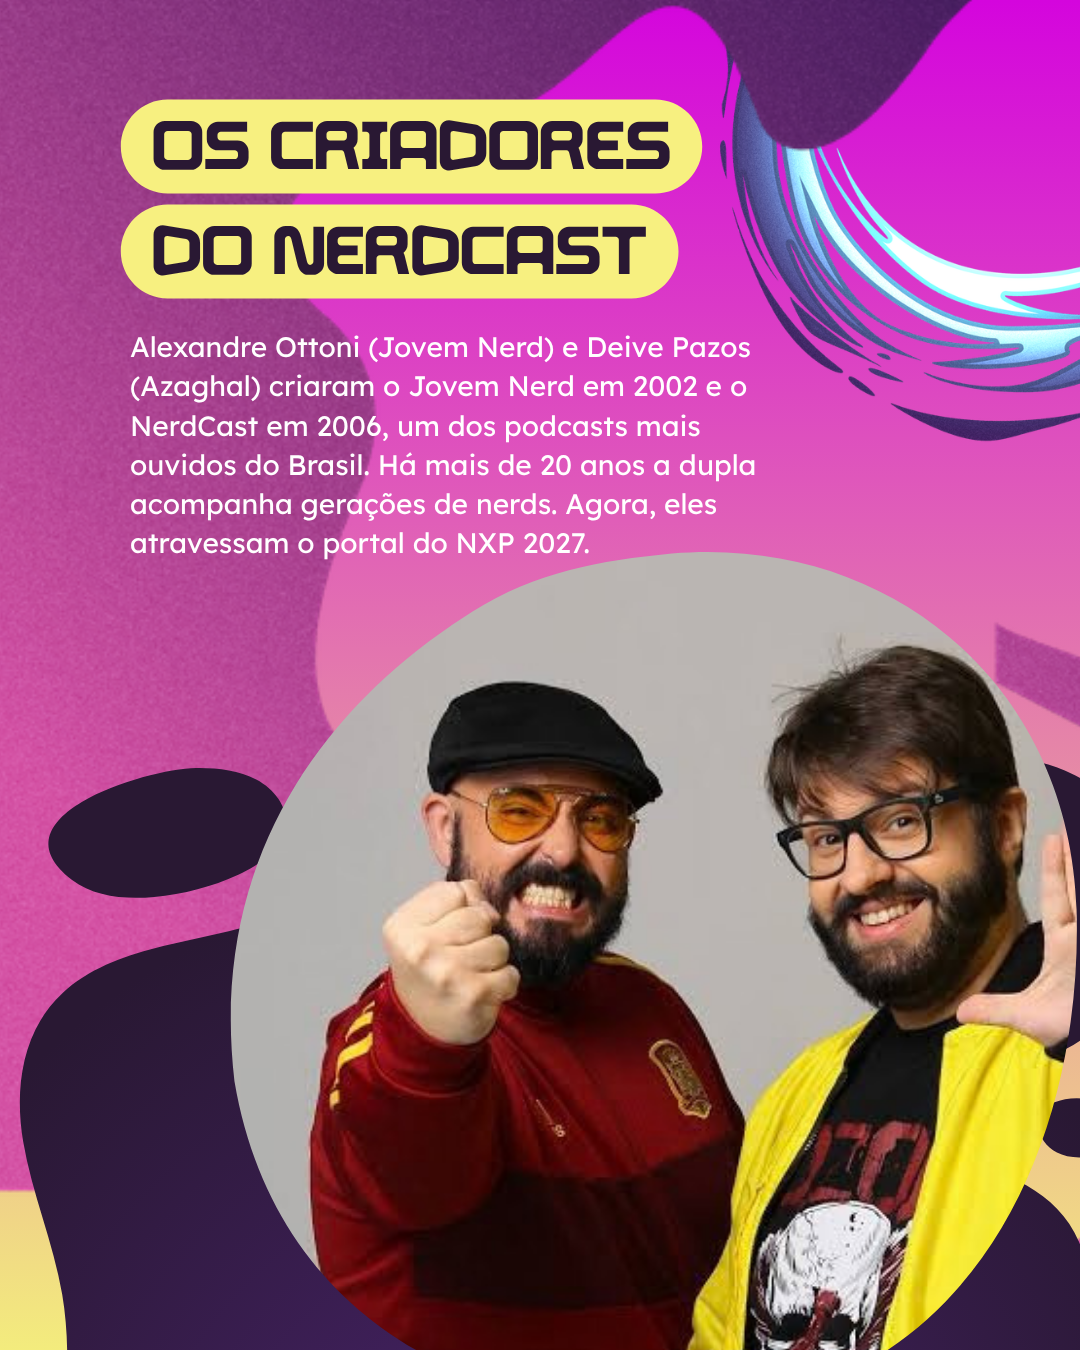
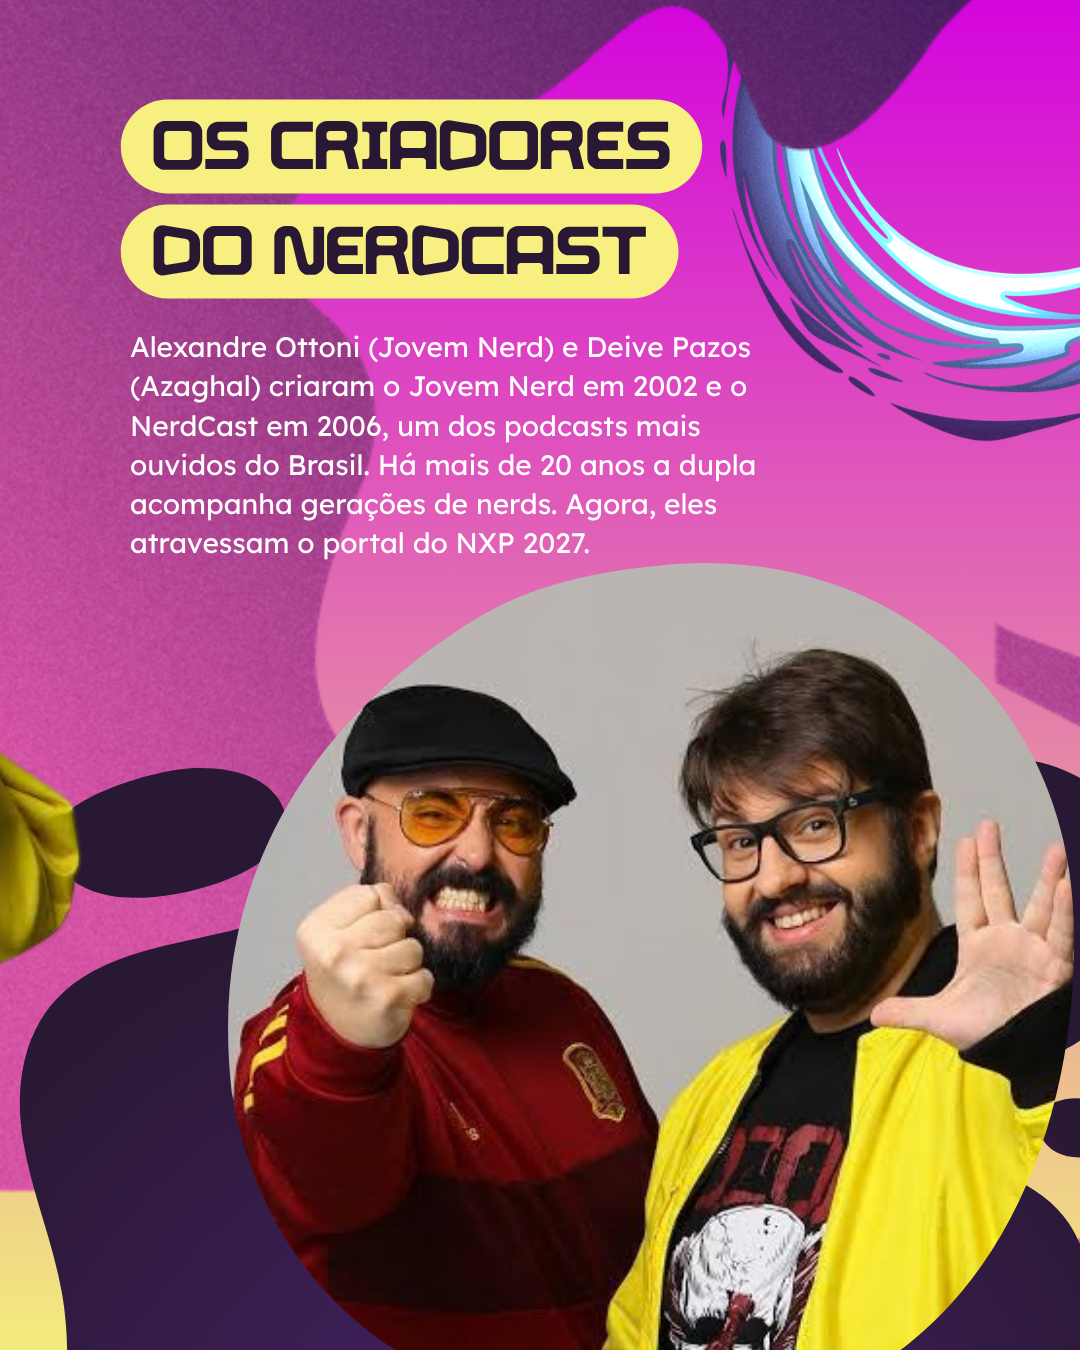
Cria a skill nxp-fazedor-de-posts (fluxo 360) e atualiza peça com a versão da equipe
- Skill do projeto com o fluxo completo: briefing, montagem no Canva,
  QA visual, entrega, revisão da equipe, consolidação e aprendizado
- receitas-canva.md: mapa do template de atração (pág. 202), recorte
  sobre portal, camadas, crop em blob e armadilhas da API
- aprendizados.md: preferências da equipe e armadilhas, atualizado a
  cada peça
- scripts/fatiar.sh: baixa o export, fatia em slides e gera zooms das
  divisas para QA
- CLAUDE.md e entregas/INDICE.md
- PNGs do carrossel Jovem Nerd e Azaghal com os ajustes da equipe

Claude-Session: https://claude.ai/code/session_01UfNEbhVf5orTNUmaXSyZor

diff --git a/.claude/skills/nxp-fazedor-de-posts/SKILL.md b/.claude/skills/nxp-fazedor-de-posts/SKILL.md
@@ -1,0 +1,76 @@
+---
+name: nxp-fazedor-de-posts
+description: Fazedor de posts oficial do Nerd Experience (NXP) — fluxo 360 de ponta a ponta para qualquer peça de Instagram (feed, carrossel, story, reels, banner). Vai do briefing e das fotos até a arte pronta e editável no Canva, QA visual, PNGs fatiados, legenda, entrega no repositório, consolidação no volume do Canva e registro do que aprendeu. Use sempre que pedirem "cria/faz um post, card, story, carrossel, arte" do NXP, anúncio de atração, promoção, lote, contagem regressiva, ou quando a equipe mostrar uma arte ajustada ("mexi, ficou assim").
+---
+
+# Fazedor de posts NXP — fluxo 360
+
+Este é o fluxo deste repositório. A identidade, a voz e os fatos vêm da skill **`nxp-especialista`**: carregue-a antes e use as referências dela (01 fatos, 06 formatos, 07 voz, 09 biblioteca, 12 Canva, 13 QA, 15 design). Aqui ficam o **processo completo** e o que a equipe já ensinou.
+
+**Antes de tudo, leia `references/aprendizados.md`** (preferências da equipe e armadilhas) e `references/receitas-canva.md` (como fazer cada coisa no Canva sem tropeçar).
+
+## Meta
+
+A equipe pede "faz o post" e recebe a **peça completa**: arte final com foto, editável no Canva, PNGs, legenda, alt text e QA. Rascunho com placeholder só se a equipe pedir.
+
+## 1. Briefing (uma mensagem só, perguntando apenas o que falta)
+
+| Campo | Se não vier |
+|---|---|
+| Objetivo e mensagem-chave | deduza e declare a suposição |
+| Formato | anúncio de atração = carrossel de 3 slides (pág. 202); demais casos: feed 4:5 + story |
+| Fatos (dia, preço, cupom, @) | `[A CONFIRMAR]`, **nunca invente** |
+| **Fotos / ativos** | **peça já no briefing**: "manda a foto oficial em alta?" |
+| Data e horário de publicação | sugira 12h ou 19h |
+
+Se a equipe disser só "cria", não trave: siga com as suposições e liste as pendências no final.
+
+## 2. Conceito
+
+Se o pedido estiver aberto, dê 3 opções curtas (título com destaque, modo de cor, âncora visual, página-modelo) e recomende uma. Se for um formato que já tem padrão (atração confirmada, contagem, lote), vá direto ao padrão.
+
+## 3. Montagem no Canva (temporário editável)
+
+1. `copy-design` da página-modelo do mestre `DAHF08WuL5g`. Título: `TEMP · NXP · [Formato] · [Campanha] · [Variação] · vN`.
+2. Textos: reaproveite as caixas do template (a Genius Techo não entra via `add_text`). Ajuste a fonte até não quebrar linha.
+3. Fotos: upload do arquivo da equipe → `remove-background` para recorte → portal atrás (receita em `receitas-canva.md`).
+4. Camadas e cores: apague todos os placeholders, recolora o texto que ficar escuro sobre fundo escuro e reordene as camadas.
+5. `commit` no temporário depois de cada bloco de edição.
+
+## 4. QA visual (obrigatório, em loop até passar)
+
+1. `export-design` png → `bash .claude/skills/nxp-fazedor-de-posts/scripts/fatiar.sh "<url>" entregas/<AAAA-MM-DD_formato_campanha>`
+2. **Olhe** `preview.png`, cada `slide-N.png` em tamanho real e cada `divisa-K.png`. Procure:
+   - placeholder sobrando (paisagem, lorem, "nome atração"), texto invisível ou quebrado;
+   - rosto cortado por blob ou divisa, pessoa ou objeto vazando para o slide vizinho;
+   - emendas entre formas, faixas de cor vazando;
+   - título legível em miniatura (30%).
+3. Rode o checklist `13-checklist-qa.md` da `nxp-especialista`.
+4. Corrigiu? Exporte e olhe de novo. Só entregue sem ❌ de arte.
+
+## 5. Entrega
+
+- Em `entregas/<pasta>/`: `slide-N.png` + `LEGENDA.md` (ficha com status, Canva, texto da arte, legenda, 1º comentário, collab, alt text, desdobramentos, QA e pendências). Modelo: `entregas/2026-10-08_carrossel_atracao-jovem-nerd-azaghal/LEGENDA.md`.
+- Commit + push na branch de trabalho.
+- Na resposta: as imagens (SendUserFile), o link do Canva, a legenda pronta para copiar e as pendências em lista curta.
+
+## 6. Quando a equipe mexer na arte ("mexi, ficou assim")
+
+1. Compare a versão dela com a sua e diga o que melhorou e o que ainda falha (com a correção).
+2. Exporte a versão dela do Canva, rode `fatiar.sh` e atualize os PNGs e a ficha.
+3. **Registre em `aprendizados.md`** o que ela mudou, como preferência da equipe. Isso é o que faz a skill melhorar.
+
+## 7. Consolidação no Canva (com aprovação)
+
+Peça aprovação explícita e depois siga o "PADRÃO DE ENTREGA" de `12-canva-workflow.md`: `merge-designs` no volume ativo (1 `insert_pages` por chamada), escreva as notas da página com o nome padrão, mova o temporário para `🗑 PARA APAGAR` e registre volume e página em `entregas/INDICE.md`.
+
+## 8. Desdobramentos
+
+Ofereça story 9:16 (`resize-design` + revisar as zonas seguras de 250 e 340 px) e roteiro de reels. Faça na hora se a equipe aceitar.
+
+## 9. Aprender (fecha toda peça)
+
+- Acrescente uma linha em "Registro por peça" de `aprendizados.md` e, se for o caso, novas armadilhas e preferências.
+- Quando a mesma preferência aparecer **duas vezes**, promova-a a regra neste `SKILL.md` ou em `receitas-canva.md`.
+- Receita nova no Canva (IDs de template, tamanhos de fonte que cabem, ordem de camadas) vai para `receitas-canva.md`.
+- Commit junto com a peça.

diff --git a/.claude/skills/nxp-fazedor-de-posts/references/receitas-canva.md b/.claude/skills/nxp-fazedor-de-posts/references/receitas-canva.md
@@ -1,0 +1,65 @@
+# Receitas de Canva (testadas na prática)
+
+Complementam `12-canva-workflow.md` da skill `nxp-especialista`. Quando uma receita mudar, atualize aqui e registre em `aprendizados.md`.
+
+## Fotos de convidados
+
+1. **Melhor fonte: o arquivo que a equipe manda no chat.** Ele fica em `/tmp/.../images/N.jpg`. Para subir no Canva:
+   - `create-upload-url` → `curl -X POST -H "Content-Type: application/octet-stream" --data-binary @arquivo "<uploadUrl>"` → a resposta traz o `mediaId`.
+   - A URL de upload vale para um envio só. Se falhar, peça outra.
+2. **Recorte sem fundo**: `remove-background` com `{"type":"MEDIA","id":"<mediaId>"}` gera um novo `mediaId` com transparência. Fica ótimo sobre o portal neon.
+3. **Busca na web (último recurso)**: o sandbox e o Canva recebem 429 do Wikimedia (`upload.wikimedia.org` e a API). As versões no Flickr (`live.staticflickr.com/..._o.jpg`, vindas do campo "Source" da página do Commons) baixam normalmente. Sempre confira a licença (CC BY / CC BY-SA) e anote o crédito. Prefira pedir a foto oficial à equipe.
+4. Resolução: abaixo de ~1000 px de largura a foto fica suave na capa. Registre na ficha e peça a versão em alta.
+
+## Template "Atração confirmada" — pág. 202 do mestre (carrossel 3240×1350)
+
+`copy-design` com `page_numbers: [202]`. Mapa dos elementos (os IDs se mantêm na cópia):
+
+| Slide | Elemento | ID | Observação |
+|---|---|---|---|
+| 1 | Título linha 1 (branco) | `LBBq230YJsv329fj` | fonte larga: "JOVEM NERD" (10 caracteres) cabe em **110 px** |
+| 1 | Título linha 2 (ciano) | `LBVgzDgm3fTbCbFH` | 112 px |
+| 1 | Pill ciano | `LBWX11qRc3pK2hvt` | "ATRAÇÕES CONFIRMADAS" cabe em **56 px** |
+| 1 | Selo "maior evento nerd da galáxia" | `LBrjq8ZSQktB1pZc` | imagem |
+| 1 | Paisagem placeholder | `LB1VrMR80BsBWqPV` **e** `LBt8Sjqx11CzKcZS` | **a paisagem está em DOIS elementos**: apague os dois |
+| 1 | Faixa escura de baixo | `LBkMgM8GgNb0H908` | começa em y≈838 |
+| 1 | Grupo logo + além do portal | `LBtgFGB6JcxzqZBT` | |
+| 1 | Grupo data do topo | `LB7LzDTylHnMJ9gr` | o texto vem em `#291833`: fica **invisível** em fundo escuro, recolorir para `#01FF9F` / branco |
+| 2 | Pills amarelas | `LB3wJSTJn9vj4tZw`, `LBmbDJc78Bcp2QrZ` | 12 caracteres cabem em **78 px** |
+| 2 | Texto corrido | `LBPsw4m0Ckw4yK3S` | ~45 palavras no máximo |
+| 2 | Blob com foto | `LBMb0LgRsN1npqT9` | o formato original tem um "dente" que corta rostos (ver abaixo) |
+| 2 | Blob escuro decorativo | `LBX2DKndW27R371t` | fica por cima da foto se não reordenar |
+| 1–2 | Blob rosa atravessando | `LB6ttDy5wvGtcz61` | vaza uma faixa rosa na lateral direita do slide 1 |
+| 3 | Assinatura (data, Expominas, ingressos) | grupo `LB3yPjWKRL3bzwMH` | normalmente não mexe |
+
+### Capa com a dupla recortada sobre o portal
+
+1. `delete_element` nos dois elementos de paisagem.
+2. `insert_shape` retângulo `#291833` 1080×860 em (0,0).
+3. `insert_fill` do portal `MAHFzkYrLZs` (≈860×860, centralizado). Funcionou na cópia do template.
+4. `insert_fill` do recorte (proporção da foto, ~1020 px de largura).
+5. **Camadas**: o que é inserido vai para o topo. Ordem final com `layer_element` → `front`, um por vez: retângulo escuro → portal → recorte → faixa escura → logo → data → título. Assim o retângulo cobre também o vazamento rosa.
+6. Desça o título para baixo da linha dos corpos (y≈868 / 978 / 1122 / 1228) ou use contorno ou degradê escuro se ele ficar por cima da foto.
+
+### Foto dentro de blob
+
+- `crop_media` em shape força "cover": `left`/`top` só podem ser ≤ 0 e a imagem precisa cobrir o shape inteiro.
+- Se um rosto cair no recorte do blob, troque o formato: `replace_shape` com um blob arredondado, por exemplo `M250 8 C370 -4 470 80 474 205 C478 330 420 470 270 482 C140 492 30 430 8 300 C-12 175 60 90 140 40 C175 18 210 12 250 8 Z` (viewBox 477.4×486.9).
+- **`replace_shape` reseta o crop**: refaça o `crop_media` depois.
+- Traga o blob da foto para frente (`layer_element` front) se um blob decorativo estiver cobrindo a foto.
+
+## Texto
+
+- `add_text` não aplica a Genius Techo. Prefira reaproveitar caixas de texto do template.
+- Depois de `replace_text`, confira a altura do elemento na resposta: se dobrou, quebrou linha. Reduza a fonte até voltar a uma linha.
+
+## Exportar e fatiar
+
+- `export-design` (png, `pages: [N]`) → `.claude/skills/nxp-fazedor-de-posts/scripts/fatiar.sh "<url>" entregas/<pasta>`.
+- O download de `export-download.canva.com` funciona no sandbox (testado em 08/10/2026).
+- Sempre olhe `preview.png` e cada `divisa-K.png` antes de entregar.
+
+## Transações
+
+- `read-design` com `open_transaction: true` → `edit-design` (`keep_open`) → conferir a miniatura → `commit`.
+- No temporário, pode salvar sem pedir. No volume e no mestre, só com aprovação. `merge-designs` sempre pede aprovação explícita.

diff --git a/.claude/skills/nxp-fazedor-de-posts/references/aprendizados.md b/.claude/skills/nxp-fazedor-de-posts/references/aprendizados.md
@@ -1,0 +1,29 @@
+# Aprendizados — o que a equipe ajustou e o que deu errado
+
+Diário vivo do fazedor de posts. **Toda peça termina com uma entrada aqui** (passo 9 do `SKILL.md`). Antes de criar uma peça, leia as seções "Preferências da equipe" e "Armadilhas".
+
+## Preferências da equipe (o que a equipe faz quando mexe na arte)
+
+Cada item vem de uma correção real. Quando a mesma preferência aparecer de novo, suba para o `SKILL.md`.
+
+- **Rostos grandes na capa.** O ponto de entrada é a cara do convidado: a dupla ocupa a largura toda do slide, com o portal visível atrás. (Jovem Nerd e Azaghal, 08/10/2026)
+- **Topo em linha única**: NERD:XP + selo "além do portal" + bloco de data lado a lado. Nada de selo solto no meio da foto. (08/10/2026)
+- **Título pode invadir a foto**: o nome do convidado sobreposto à base da foto, com contorno escuro, em vez de uma faixa separada. (08/10/2026)
+- **Não aceita emenda visível**: dois retângulos escuros vizinhos precisam ter a borda alinhada. (08/10/2026)
+- **Foto da equipe > foto da internet**: a equipe mandou a foto de estúdio oficial assim que viu o placeholder. Peça a foto logo no briefing. (08/10/2026)
+- **"Faz o card completo"**: a equipe espera a arte pronta para publicar, não rascunho com placeholder. Se faltar a foto, peça antes de montar ou resolva com uma fonte licenciada. (08/10/2026)
+
+## Armadilhas técnicas
+
+- Wikimedia bloqueia o sandbox e o Canva (429). Flickr original funciona. (08/10/2026)
+- A paisagem placeholder da pág. 202 está em dois elementos. Se apagar um só, ela continua aparecendo. (08/10/2026)
+- O texto escuro do template some quando o fundo vira escuro. Recolorir a data do topo. (08/10/2026)
+- O blob rosa do slide 2 vaza para o slide 1 quando o fundo da capa muda. (08/10/2026)
+- `replace_shape` reseta o crop da imagem. (08/10/2026)
+- Recorte de pessoa passando da divisa do slide (1080 px) aparece como pedaço solto no slide seguinte. Conferir em `divisa-K.png`. (08/10/2026)
+
+## Registro por peça
+
+| Data | Peça | O que a equipe mudou depois | Lição |
+|---|---|---|---|
+| 08/10/2026 | NXP · Carrossel · Atração · Jovem Nerd e Azaghal · v1 | Ampliou a dupla, alinhou o topo, pôs contorno no título, corrigiu a emenda da faixa escura | Capa de atração = rosto grande + portal; conferir as divisas; pedir a foto oficial no briefing |

diff --git a/entregas/README.md b/entregas/README.md
@@ -12,12 +12,16 @@ Peça ao Claude neste repositório, por exemplo: "cria um post anunciando X". Se
 - fotos oficiais (press kit) dos convidados
 - data e horário de publicação
 
-## Fluxo
+## Fluxo (360)
 
-1. A arte é montada no Canva a partir das páginas-modelo do mestre "NXP Pop Festival" (`DAHF08WuL5g`) e fica **editável**.
-2. Depois de aprovada, entra no volume ativo `NXP 2027 — Posts Instagram · vol. N` e o temporário vai pra `🗑 PARA APAGAR (lixeira)`.
-3. O PNG é exportado e fatiado em 1080×1350 aqui, em `AAAA-MM-DD_formato_campanha/`.
-4. A `LEGENDA.md` traz o texto da arte, a legenda, o primeiro comentário, o alt text e o QA. Só publique quando não houver nenhum ❌ no QA.
+O processo completo está na skill `.claude/skills/nxp-fazedor-de-posts/SKILL.md`. Em resumo:
+
+1. Briefing: o Claude pede as fotos oficiais e os dados que faltarem.
+2. A arte é montada no Canva a partir das páginas-modelo do mestre "NXP Pop Festival" (`DAHF08WuL5g`) e fica **editável**.
+3. QA visual: export, fatiamento em 1080×1350 (`scripts/fatiar.sh`) e conferência de cada slide e de cada divisa.
+4. Entrega aqui, em `AAAA-MM-DD_formato_campanha/`: os slides + `LEGENDA.md` (texto da arte, legenda, primeiro comentário, alt text e QA). Só publique sem nenhum ❌ no QA.
+5. Com aprovação, a peça entra no volume ativo `NXP 2027 — Posts Instagram · vol. N` e é registrada no `INDICE.md`.
+6. Se a equipe ajustar a arte no Canva, o Claude puxa a versão nova e registra o ajuste em `references/aprendizados.md`. É assim que a skill melhora a cada post.
 
 ## Nome das peças
 

diff --git a/entregas/2026-10-08_carrossel_atracao-jovem-nerd-azaghal/LEGENDA.md b/entregas/2026-10-08_carrossel_atracao-jovem-nerd-azaghal/LEGENDA.md
@@ -67,6 +67,8 @@ gerações de nerds, chegam ao NerdVerso no maior evento nerd da galáxia.
 ## QA
 
 - ✅ **Fotos** aplicadas nos dois slides. Atenção: a foto enviada tem 678×452 e foi ampliada na capa, então pode ficar um pouco suave no zoom. Se houver versão em alta, é só trocar o fill no Canva.
+- ✅ **Ajustes da equipe (08/10)**: dupla ampliada, topo em linha única, contorno no título, emenda da faixa escura corrigida. Os PNGs desta pasta já são a versão da equipe.
+- ⚠ **Divisa 1→2**: a manga amarela do Jovem Nerd passa ~80 px para o slide 2 (ver `.qa/divisa-1.png`). Recolher para dentro dos 1080 px ou assumir a continuidade.
 - ❌ **Dia da participação**: 27/02, 28/02 ou os dois? Quando confirmar, dá pra trocar o "27 e 28" do topo do slide 1 por uma pill com o dia, como no post do Érico Borgo.
 - ❌ **@ da collab**: conferir os perfis oficiais antes de marcar.
 - ✅ Data, local, grafia (NerdVerso, Nerd Experience, NerdCast), CTA único, ≤ 2 cores de destaque, texto da capa ≤ 25 palavras, ponto de entrada único (nome da dupla).

diff --git a/CLAUDE.md b/CLAUDE.md
@@ -1,0 +1,12 @@
+# nerd-exp
+
+Este repositório tem duas partes:
+
+- **Site do Nerd Experience** (Nuxt + TypeScript): `pages/`, `components/`, `layouts/`, `store/`, `static/`.
+- **Fazedor de posts oficial do NXP**: `entregas/` (peças publicadas ou em produção) e a skill `.claude/skills/nxp-fazedor-de-posts/`.
+
+## Posts do Instagram
+
+- Qualquer pedido de post, card, story, carrossel ou arte do NXP segue a skill `nxp-fazedor-de-posts` (fluxo 360), junto com a `nxp-especialista` para identidade e fatos.
+- Toda peça termina com o registro do que foi aprendido em `.claude/skills/nxp-fazedor-de-posts/references/aprendizados.md`, commitado junto com a peça.
+- Quando a equipe ajustar uma arte no Canva, exporte a versão dela, atualize `entregas/` e registre a diferença como preferência da equipe.

diff --git a/entregas/INDICE.md b/entregas/INDICE.md
@@ -1,0 +1,7 @@
+# Índice de peças
+
+Uma linha por peça. "Canva" é o design temporário até a consolidação; depois vira volume + página.
+
+| Data | Peça | Formato | Canva | Status | Pasta |
+|---|---|---|---|---|---|
+| 08/10/2026 | NXP · Carrossel · Atração · Jovem Nerd e Azaghal · v1 | Carrossel 3 × 1080×1350 | Temporário `DAHXbnFMeGM` (ainda não consolidado no vol. 3) | Arte pronta; pendências: dia, @ collab, publicação | `2026-10-08_carrossel_atracao-jovem-nerd-azaghal/` |
